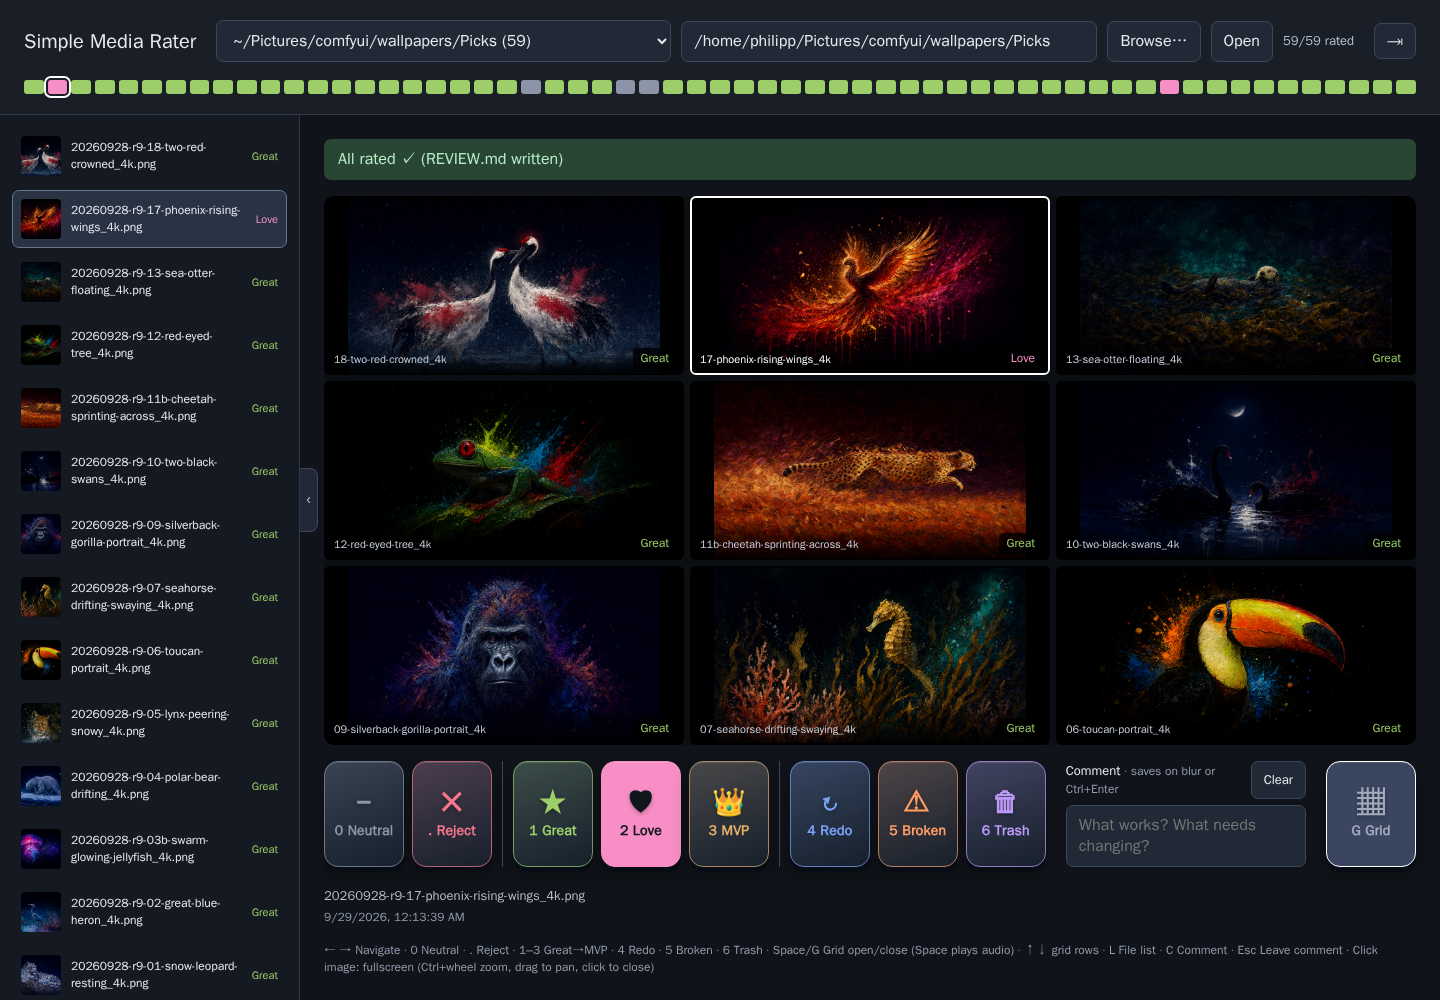
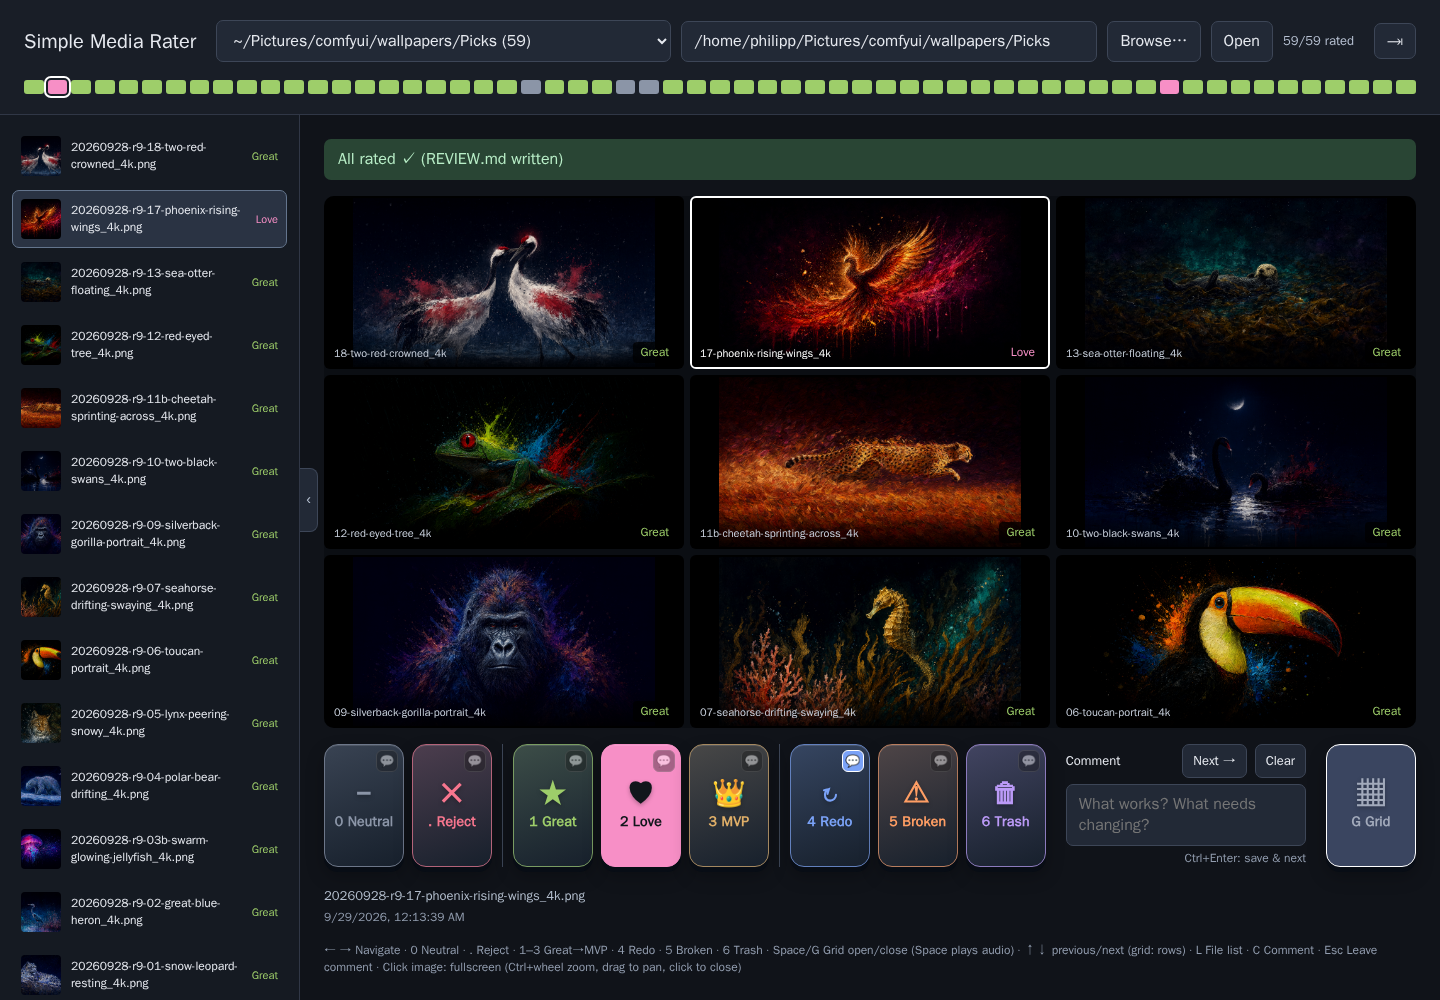
Ctrl+Enter hint under the comment box; new screenshot

diff --git a/index.html b/index.html
@@ -39,14 +39,14 @@ body.side [data-key="4"]{grid-area:1/1}body.side [data-key="5"]{grid-area:1/2}bo
 /* File list collapses to the left; a small flag on its edge brings it back (L). */
 #list-tab{position:fixed;left:var(--list);top:50%;transform:translateY(-50%);z-index:5;width:18px;height:64px;padding:0;border-radius:0 8px 8px 0;border-left:0;background:#222936;color:#b7c1d2;font-size:14px}
 body.list-off{grid-template-columns:minmax(0,1fr)}body.list-off aside{display:none}body.list-off #list-tab{left:0}
-#next{margin-left:auto}.comment-head button{white-space:nowrap;padding:7px 10px}body:not(.side) .comment-head .hint{display:none}
+#next{margin-left:auto}.comment-head button{white-space:nowrap;padding:7px 10px}body:not(.side) .comment-head .hint{display:none}.send-hint{margin-top:4px;text-align:right}body.side .send-hint{display:none}
 </style>
 </head>
 <body>
 <header><div class="top"><h1 title="Pictures & music · Local files · Markdown notes">Simple Media Rater</h1><div class="controls"><select id="folders" aria-label="Discovered folders"><option value="">Choose a folder</option></select><input id="path" aria-label="Folder path" placeholder="/path/to/media"><button id="browse">Browse…</button><button id="open">Open</button><span id="progress">0/0 rated</span></div><button id="layout" title="Controls: move to right sidebar" aria-label="Toggle sidebar layout">⇥</button></div><nav id="ticks" aria-label="Review progress"></nav></header>
 <aside id="sidebar" aria-label="Media files"></aside><button id="list-tab" title="Hide file list (L)" aria-label="Toggle file list">‹</button>
 <!-- Review order: media, ratings, comment, then filename/date. -->
-<main><div id="banner" hidden>All rated ✓ (REVIEW.md written)</div><div id="media">Choose a folder to start reviewing</div><div id="ratings" hidden></div><section id="comments" hidden><div class="comment-head"><label for="comment">Comment <span class="hint">· saves on blur · Ctrl+Enter: save &amp; next</span></label><button id="next" title="Save the comment and go to the next file">Next →</button><button id="clear" title="Remove rating, flag and comment">Clear</button></div><textarea id="comment" placeholder="What works? What needs changing?"></textarea></section><div id="grid-box" hidden></div><section id="details" hidden><div id="filename"></div><div id="date"></div></section><div class="hint">← → Navigate · 0 Neutral · . Reject · 1–3 Great→MVP · 4 Redo · 5 Broken · 6 Trash · Space/G Grid open/close (Space plays audio) · ↑↓ previous/next (grid: rows) · L File list · C Comment · Esc Leave comment · Click image: fullscreen (Ctrl+wheel zoom, drag to pan, click to close)</div></main>
+<main><div id="banner" hidden>All rated ✓ (REVIEW.md written)</div><div id="media">Choose a folder to start reviewing</div><div id="ratings" hidden></div><section id="comments" hidden><div class="comment-head"><label for="comment">Comment <span class="hint">· saves on blur · Ctrl+Enter: save &amp; next</span></label><button id="next" title="Save the comment and go to the next file">Next →</button><button id="clear" title="Remove rating, flag and comment">Clear</button></div><textarea id="comment" placeholder="What works? What needs changing?"></textarea><div class="hint send-hint">Ctrl+Enter: save &amp; next</div></section><div id="grid-box" hidden></div><section id="details" hidden><div id="filename"></div><div id="date"></div></section><div class="hint">← → Navigate · 0 Neutral · . Reject · 1–3 Great→MVP · 4 Redo · 5 Broken · 6 Trash · Space/G Grid open/close (Space plays audio) · ↑↓ previous/next (grid: rows) · L File list · C Comment · Esc Leave comment · Click image: fullscreen (Ctrl+wheel zoom, drag to pan, click to close)</div></main>
 <div id="viewer" hidden><img alt=""><div id="zoom-level"></div></div>
 <div id="toast" role="alert" hidden></div>
 <script>
